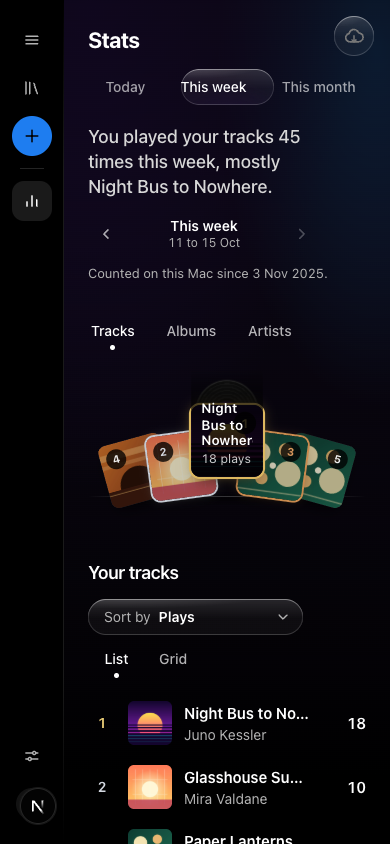
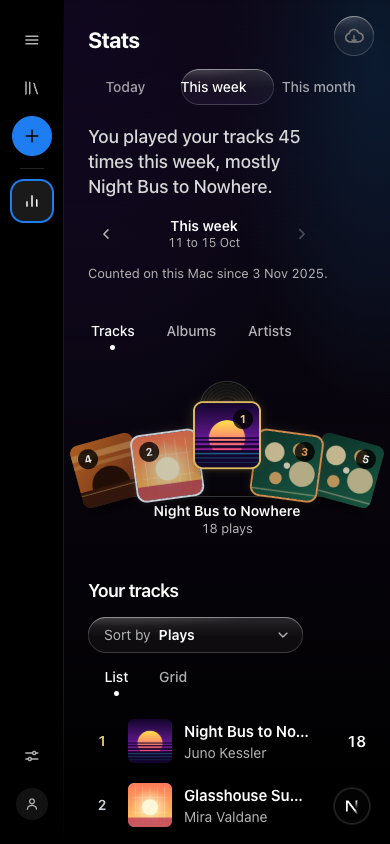
Stats page: fan caption at narrow widths, 44px touch targets, lift stays on the focused sleeve (#145)
Codex review round 2 on PR #192: the pointer leaving no longer drops the lift from a keyboard-focused sleeve.
Narrow fans show the chosen name and plays in a caption and step wider so each sleeve keeps about 44px to tap.

Claude-Session: https://claude.ai/code/session_016wtvpvRFjMyGctvKw2v9pz

diff --git a/apps/web/src/app/globals.css b/apps/web/src/app/globals.css
@@ -2028,6 +2028,8 @@ body {
   --fan-lift: 0.232;
   --fan-pop: 1.07;
   --fan-dim: 0;
+  /* Room added under the sleeves for the page's caption at a narrow width; nothing otherwise. */
+  --fan-base: 0px;
   position: relative;
   height: calc(var(--w) * 2.107);
 }
@@ -2052,7 +2054,7 @@ body {
   position: absolute;
   left: 10%;
   right: 10%;
-  bottom: calc(var(--w) * 0.214);
+  bottom: calc(var(--w) * 0.214 + var(--fan-base));
   height: calc(var(--w) * 0.25);
   background: radial-gradient(closest-side, rgb(0 0 0 / 0.55), transparent);
 }
@@ -2060,7 +2062,7 @@ body {
   position: absolute;
   left: 0;
   right: 0;
-  bottom: calc(var(--w) * 0.348);
+  bottom: calc(var(--w) * 0.348 + var(--fan-base));
   height: 1px;
   background: linear-gradient(
     to right,
@@ -2073,7 +2075,7 @@ body {
 .fan-sleeve {
   position: absolute;
   left: 50%;
-  bottom: calc(var(--w) * 0.357);
+  bottom: calc(var(--w) * 0.357 + var(--fan-base));
   width: var(--w);
   height: var(--w);
   margin-left: calc(var(--w) / -2);
@@ -2293,6 +2295,52 @@ body {
   color: rgb(255 255 255 / 0.8);
   font-size: var(--fan-plays);
   font-variant-numeric: tabular-nums;
+}
+
+/* The page fan's caption: the chosen sleeve's name and plays under the fan, for where the sleeves
+   are too small to carry their own tag. Off at a wide width, so the fan there is as it was. */
+.fan-caption {
+  display: none;
+  position: absolute;
+  left: 0;
+  right: 0;
+  bottom: 0;
+  margin: 0;
+  text-align: center;
+}
+.fan-caption-title {
+  display: block;
+  overflow: hidden;
+  color: #fff;
+  font-size: 14px;
+  font-weight: 600;
+  line-height: 1.3;
+  text-overflow: ellipsis;
+  white-space: nowrap;
+}
+.fan-caption-plays {
+  display: block;
+  color: rgb(255 255 255 / 0.7);
+  font-size: 13px;
+  font-variant-numeric: tabular-nums;
+  line-height: 1.3;
+}
+/* Narrow room (the sleeves would be under about 120px): the caption replaces the in-sleeve tag, and
+   the sleeves step further apart so about 44px of each stays to tap. Desktop is untouched. */
+@container (max-width: 545px) {
+  .fan[data-size="page"] {
+    --fan-base: 18px;
+    --fan-step: 0.56;
+    --fan-lift: 0.45;
+    --fan-pop: 1;
+    height: calc(var(--w) * 2.25 + var(--fan-base));
+  }
+  .fan[data-size="page"] .fan-tag {
+    display: none;
+  }
+  .fan-caption {
+    display: block;
+  }
 }
 
 /* ---------------------------------------------------------------------------

diff --git a/apps/web/src/components/stats/SleeveFan.tsx b/apps/web/src/components/stats/SleeveFan.tsx
@@ -72,7 +72,12 @@ export default function SleeveFan({
       data-size={size}
       onPointerLeave={(e) => {
         // A finger leaves the moment it lifts; that must not drop the lift a tap just made.
-        if (e.pointerType !== "touch") reset();
+        if (e.pointerType === "touch") return;
+        // A sleeve with keyboard focus keeps the lift, so what is lifted is what Enter opens.
+        const hits = [...(root.current?.querySelectorAll<HTMLElement>(".fan-hit") ?? [])];
+        const focused = hits.findIndex((h) => h === document.activeElement);
+        if (focused >= 0) setActive(focused);
+        else reset();
       }}
       onKeyDown={(e) => {
         // ← → wheel through the sleeves in the order they sit, not by rank. No wrap-around.
@@ -117,6 +122,14 @@ export default function SleeveFan({
         ))}
       </ol>
       <div aria-hidden className="fan-plank" />
+      {size === "page" && shown[current] && (
+        // Where the sleeves are small the tag no longer fits on the cover; this says the same under the fan.
+        // Hidden from screen readers: each sleeve's own name already carries the title and plays.
+        <p aria-hidden className="fan-caption">
+          <span className="fan-caption-title">{shown[current].title}</span>
+          <span className="fan-caption-plays">{playsLabel(shown[current].plays)}</span>
+        </p>
+      )}
     </div>
   );
 }

diff --git a/docs/design.md b/docs/design.md
@@ -346,7 +346,7 @@ eyebrows still apply to those labels.
     period's empty line, no fan. Hover or focus lifts a sleeve and slides its record out, with name
     and plays; artists are round discs. The page fan steps its sleeves sideways as well as tilting
     them, so each shows most of its cover; the chosen one lifts higher and the rest dim a little,
-    and ← → move focus through them left to right.
+    and ← → move focus through them left to right; the lift stays on the keyboard-focused sleeve when the pointer leaves. Under about 545px of room the chosen sleeve's name and plays sit in a caption under the fan instead of on the cover, and the narrow fan steps wider so at least 45px of each sleeve stays to tap in every selection state (measured at 390px).
   - **Activation**: a sleeve, list row and grid tile is a button. Enter, Space or click opens a
     track's or album's release; an artist opens the Library filtered to that artist (its search
     query). A mouse only lifts on hover. On touch the first tap lifts and the second opens; a tap
